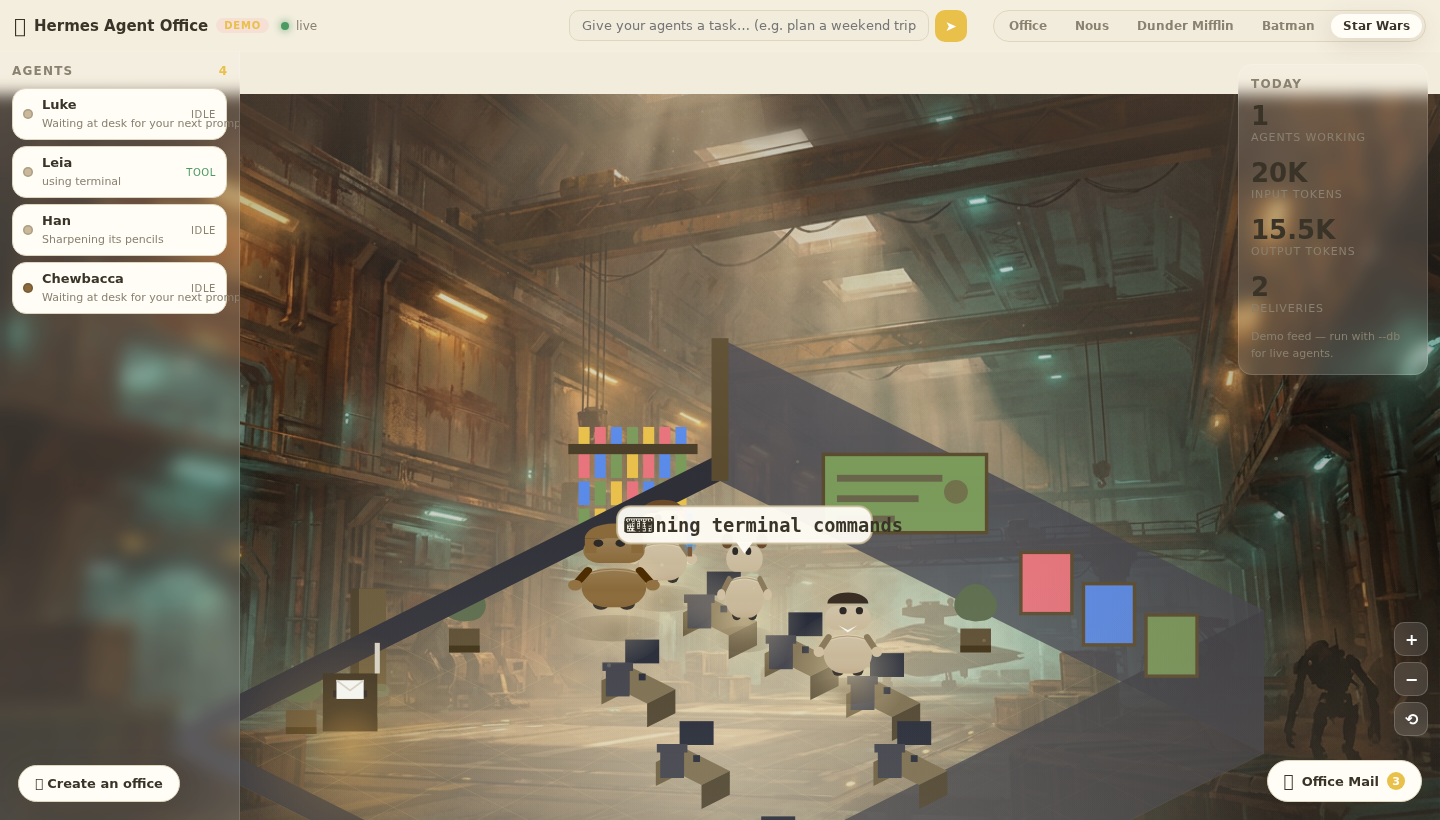
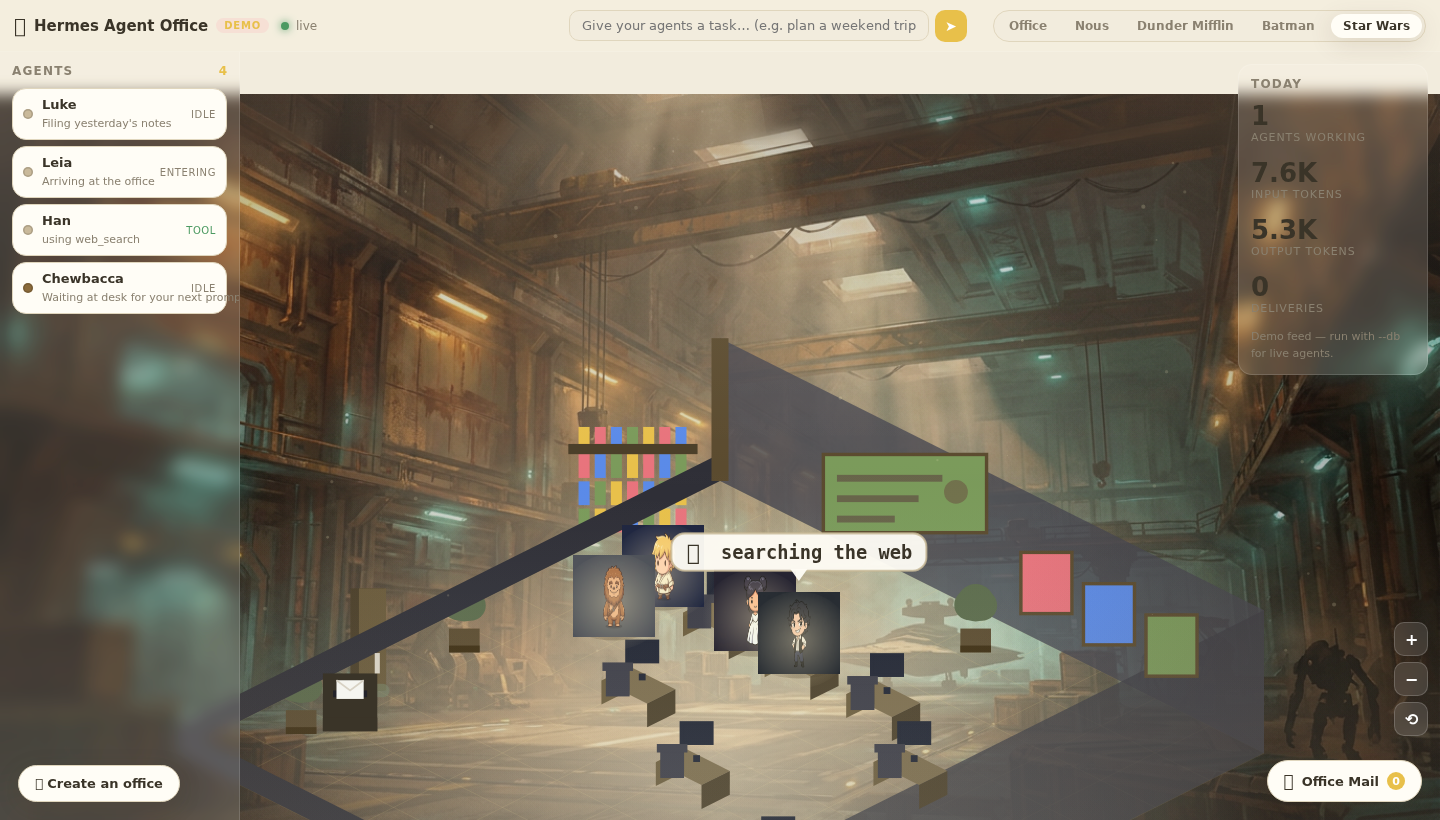
feat: themed character sprites for ALL franchises — Star Wars cast (Luke/Leia/Han/Chewbacca) + Dunder Mifflin cast (Michael/Dwight/Jim/Pam) + Batman cast, AI-generated via gemini-3-pro-image; README screenshots updated

diff --git a/web/office-renderer.js b/web/office-renderer.js
@@ -31,7 +31,8 @@ const OfficeRenderer = {
   },
 
   _loadSprites() {
-    const names = ['batman', 'robin', 'catwoman', 'joker'];
+    const names = ['batman', 'robin', 'catwoman', 'joker', 'luke', 'leia', 'han', 'chewbacca',
+                   'michael', 'dwight', 'jim', 'pam'];
     for (const n of names) {
       const img = new Image();
       img.src = '/assets/char-' + n + '.png';
